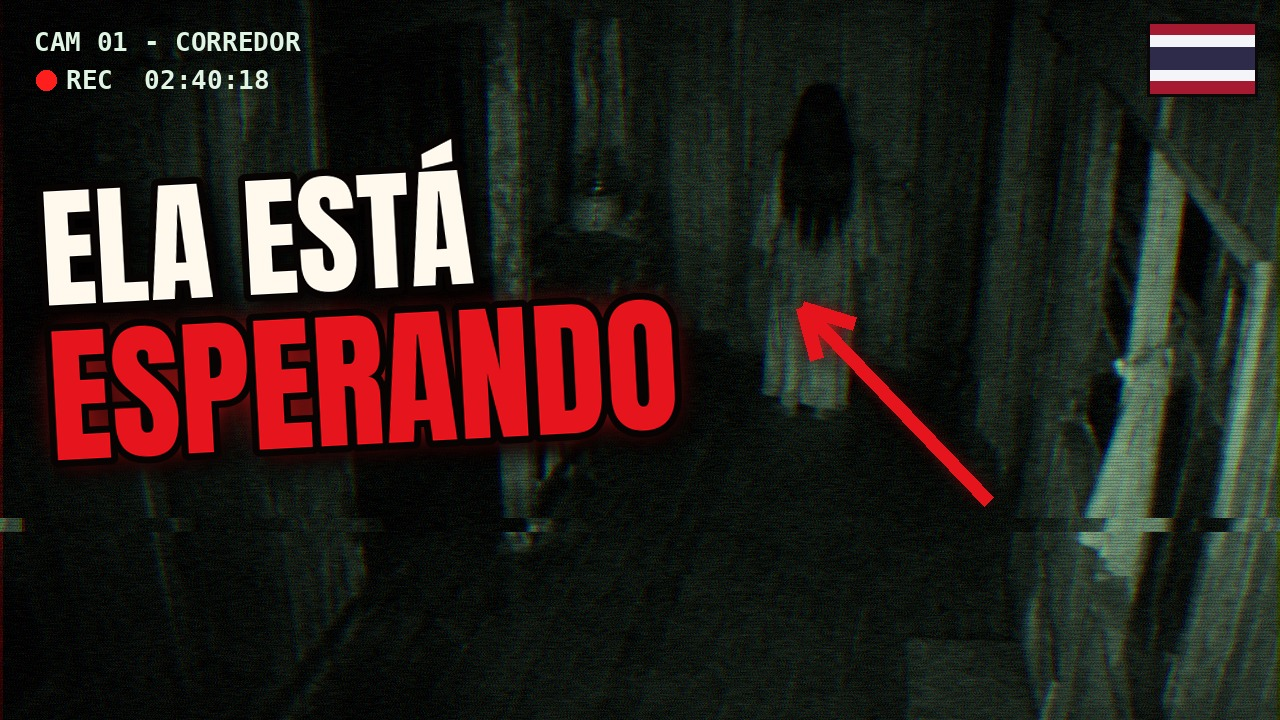
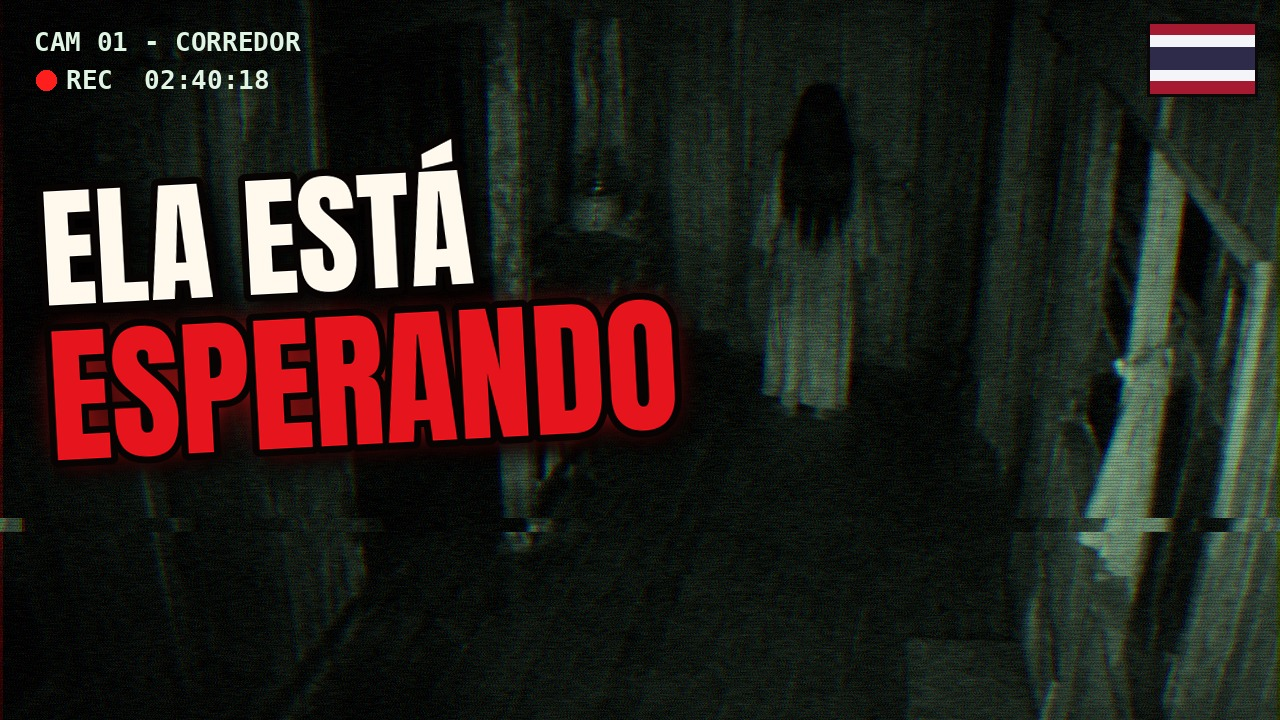
Ep10: capas sem círculo e sem seta
Claude-Session: https://claude.ai/code/session_01Mik5s9WJkfvsyjJAMyZLER

Changed region(s): [[0.5938, 0.3972, 0.7812, 0.7028]]

diff --git a/video/episodios/ep10-tailandia/publicacao/gerar_capas_v2.py b/video/episodios/ep10-tailandia/publicacao/gerar_capas_v2.py
@@ -18,6 +18,7 @@ VERM = (230, 20, 28)
 BRANCO = (255, 248, 236)
 rng = np.random.default_rng(10)
 COM_CIRCULO = False
+COM_SETA = False   # 16/11: o usuário pediu para tirar a seta também
 
 
 def abrir(cod, cx, cy, zoom):
@@ -79,6 +80,8 @@ def brilho_vermelho(img, cx, cy, r, forca=0.9):
 
 
 def circulo_seta(base, cx, cy, r, de):
+    if not (COM_CIRCULO or COM_SETA):
+        return
     cam = Image.new("RGBA", base.size, (0, 0, 0, 0)); d = ImageDraw.Draw(cam)
     if not COM_CIRCULO:
         r = min(r, 34)   # sem círculo, a seta chega quase encostando no alvo
